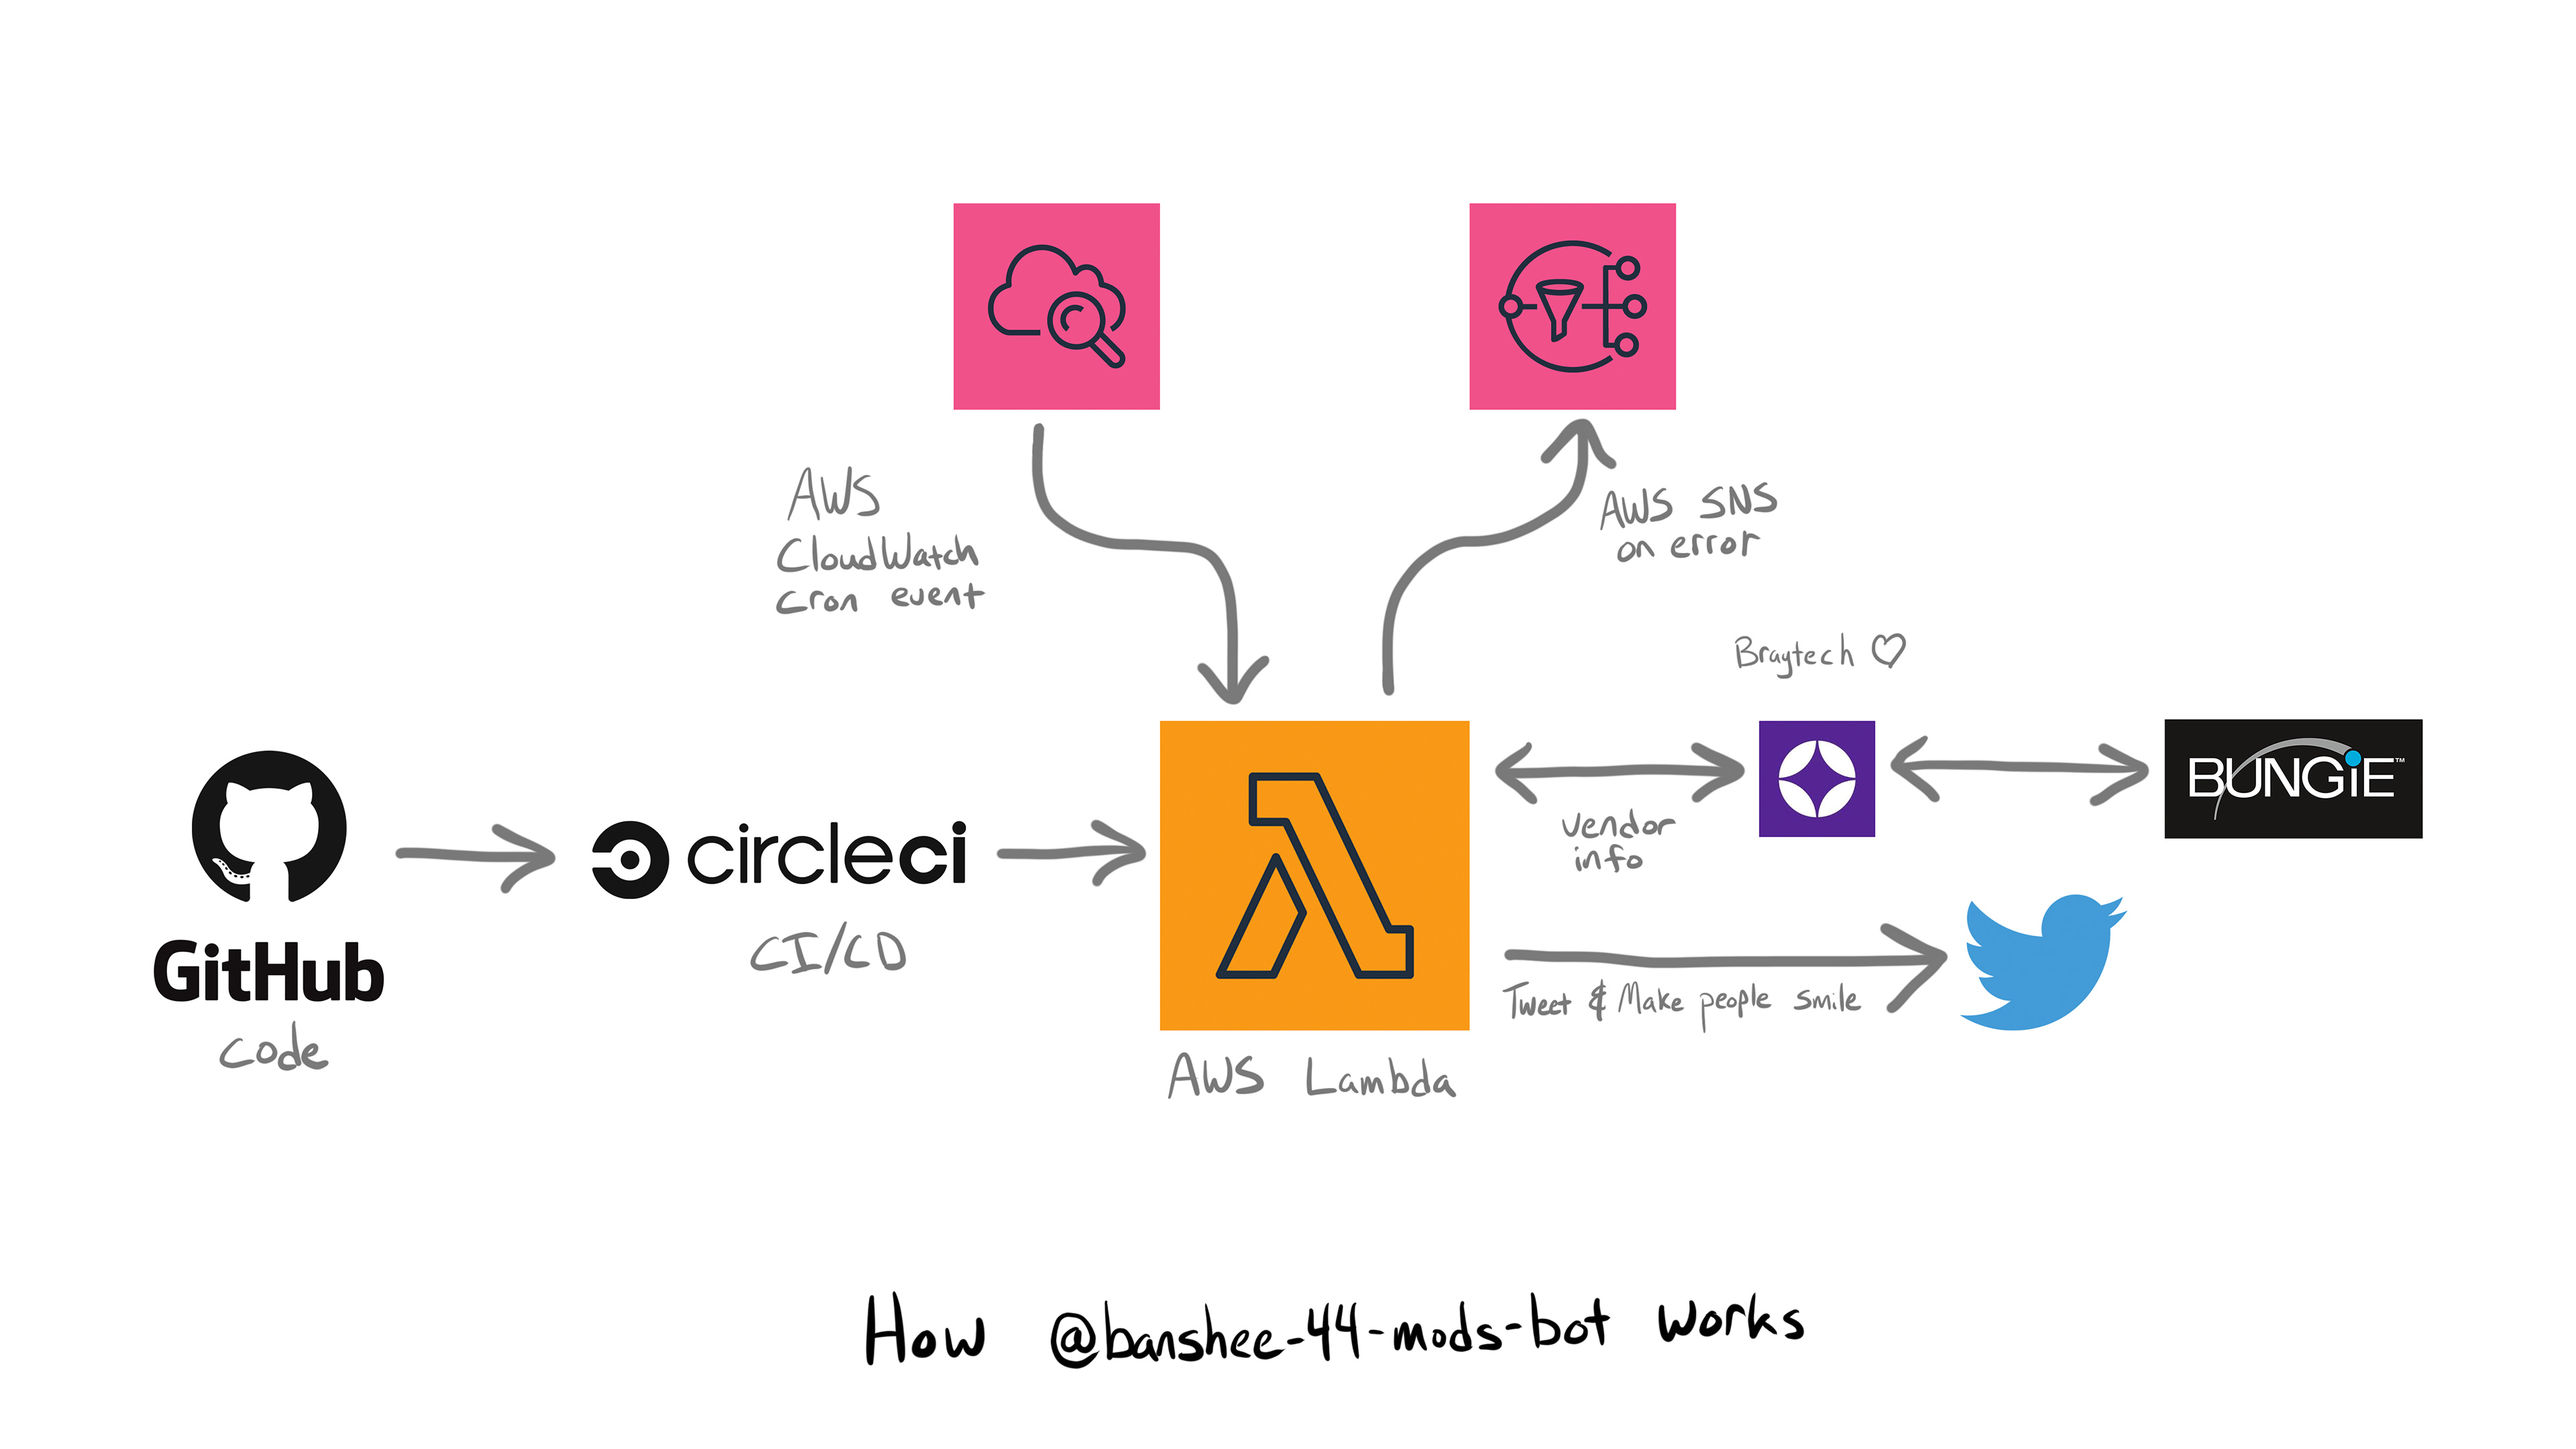
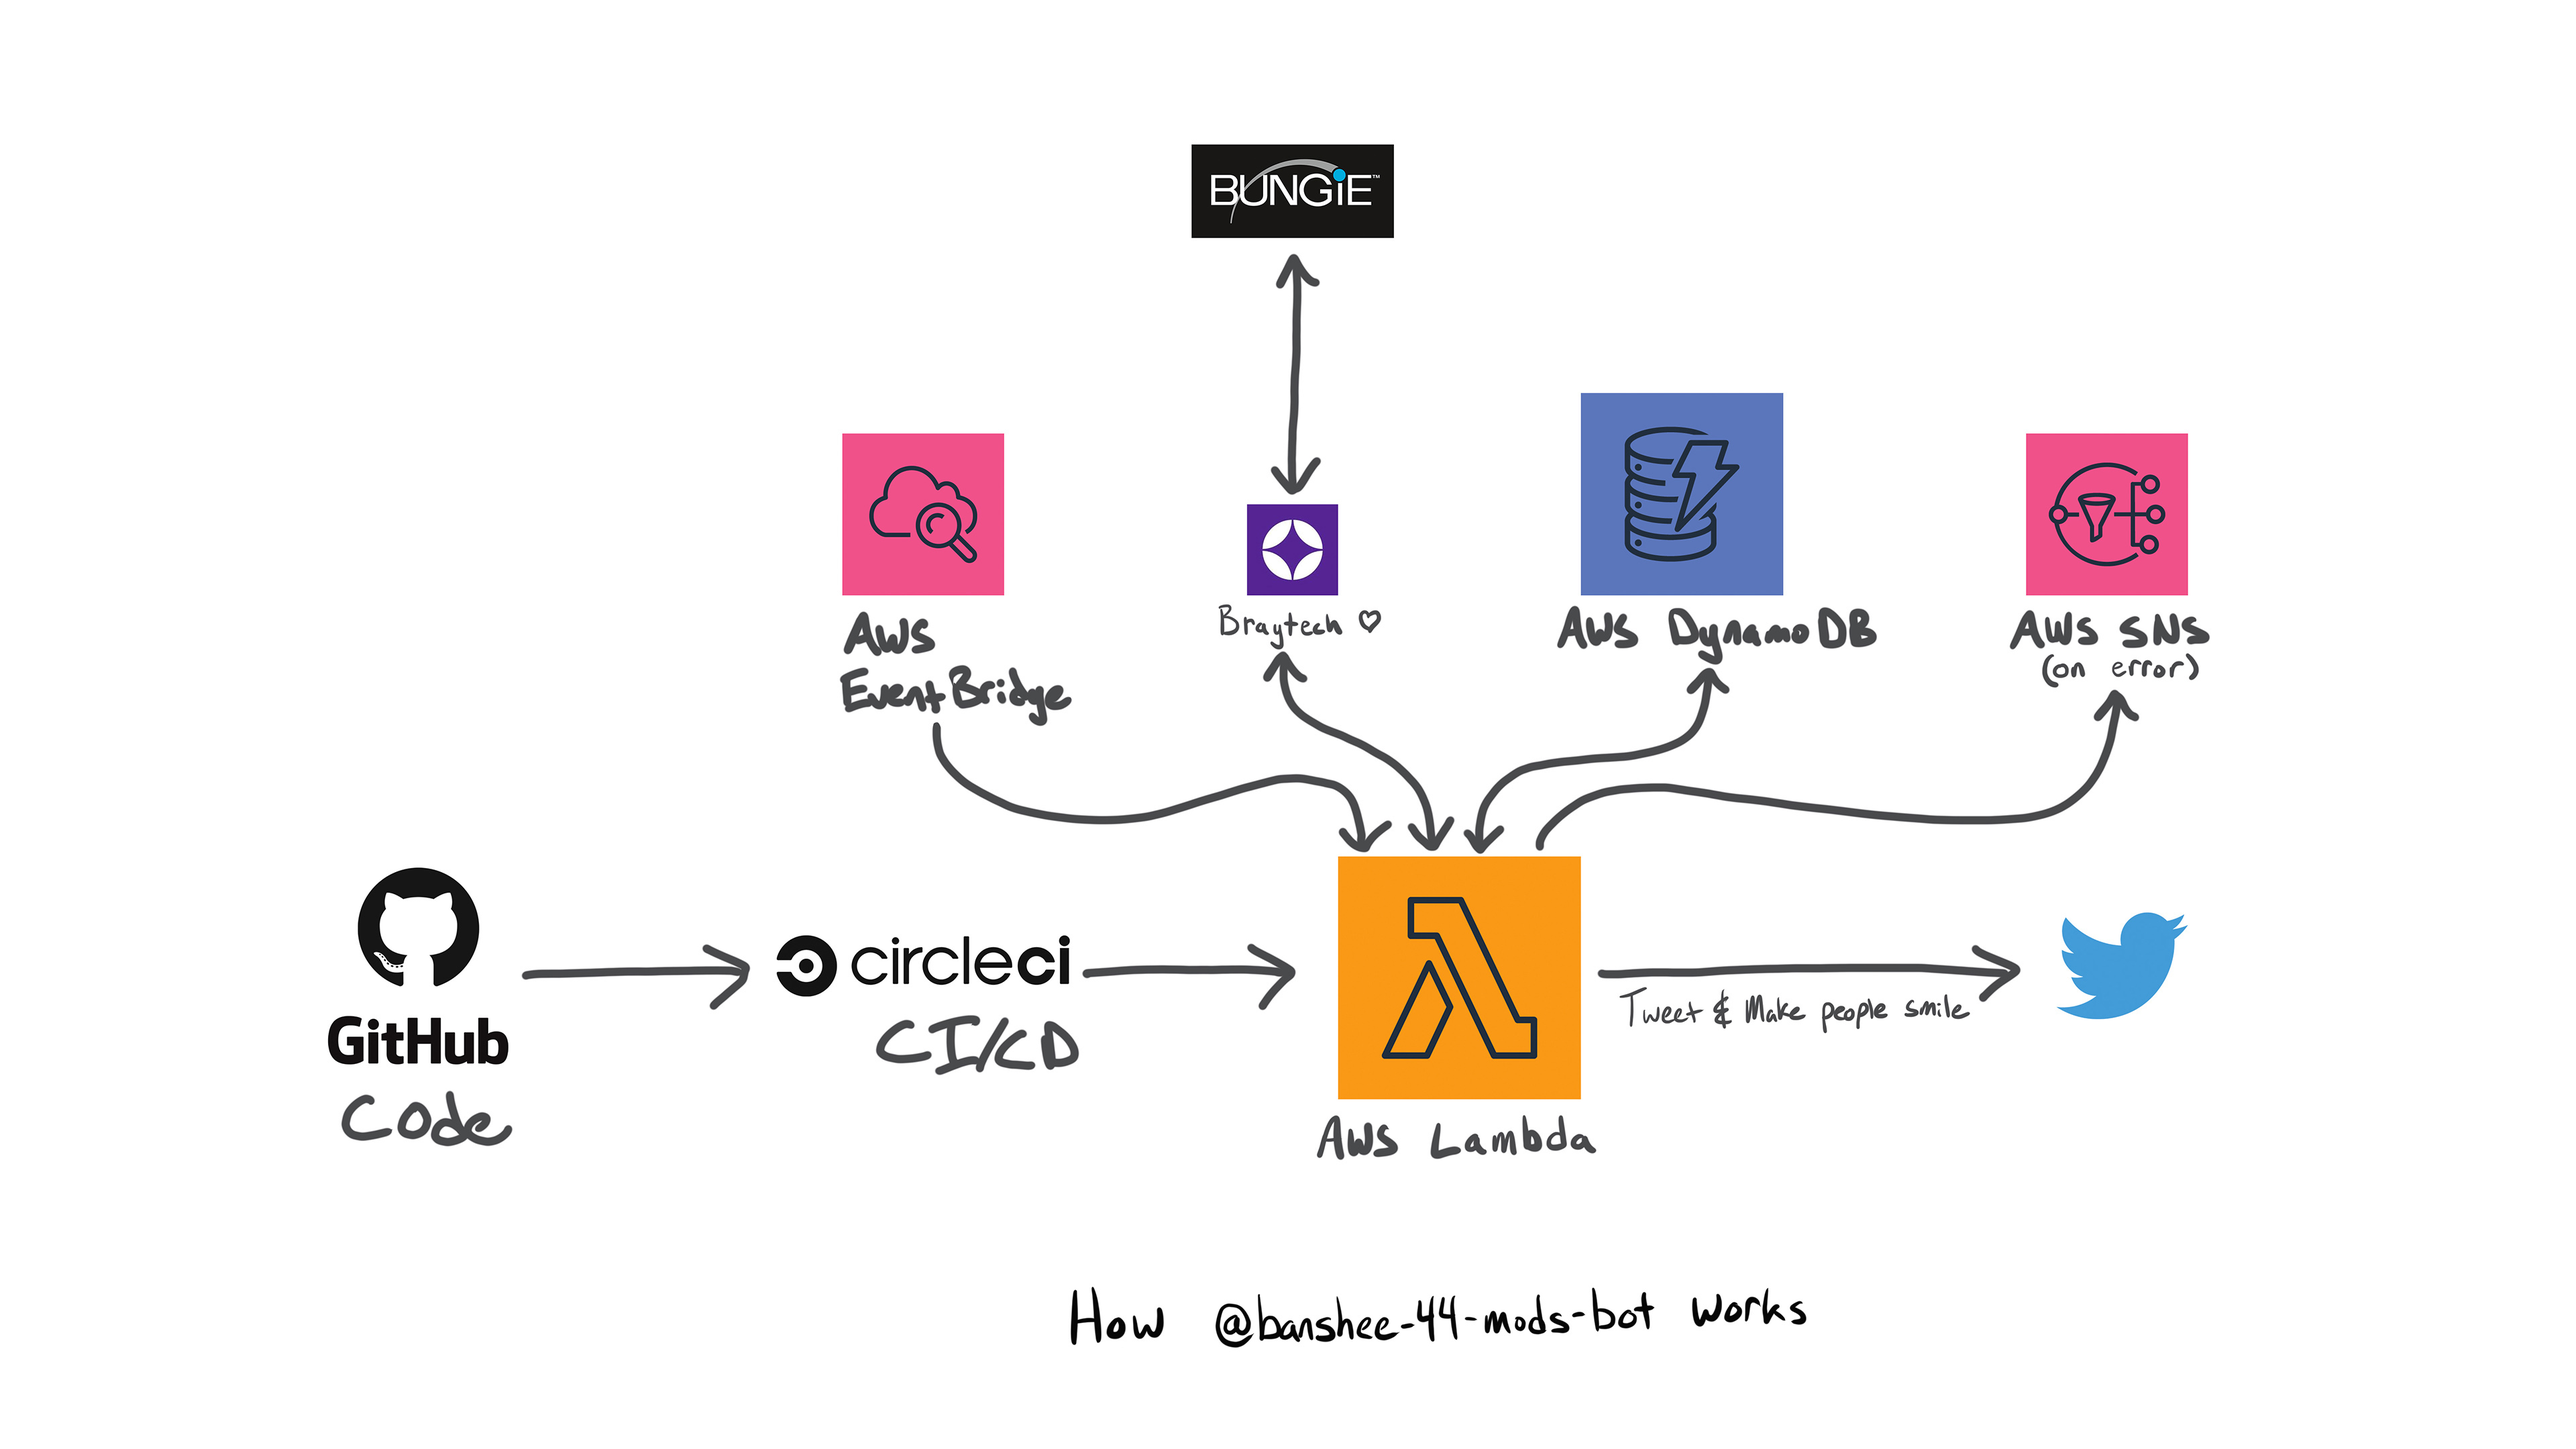
:sparkle: Adds historic context for each tweet

Changed region(s): [[0.0625, 0.0931, 0.9375, 0.8065], [0.4062, 0.8995, 0.7188, 0.9616], [0.3125, 0.8995, 0.375, 0.9616]]

diff --git a/src/integrations/dynamodb.js b/src/integrations/dynamodb.js
@@ -1,0 +1,81 @@
+const AWS = require("aws-sdk")
+
+module.exports.insertData = async (mod1, mod2) => {
+  AWS.config.update({ region: "us-east-1" })
+  const ddb = new AWS.DynamoDB({ apiVersion: "2012-08-10" })
+
+  const params = {
+    TableName: "banshee-44-mods-bot",
+    Item: {
+      // AWS DynamoDB uses single char for types
+      // eslint-disable-next-line id-length
+      timestamp: { S: new Date().toISOString() },
+      // eslint-disable-next-line id-length
+      mod1: { S: mod1 },
+      // eslint-disable-next-line id-length
+      mod2: { S: mod2 }
+    }
+  }
+
+  await ddb.putItem(params).promise()
+}
+
+const getQuery = (modNumber, mod) => {
+  return {
+    TableName: "banshee-44-mods-bot",
+    FilterExpression: `${modNumber} = :value`,
+    ExpressionAttributeValues: {
+      // AWS DynamoDB uses single char for types
+      // eslint-disable-next-line id-length
+      ":value": { S: mod }
+    }
+  }
+}
+
+module.exports.deleteKey = async (key) => {
+  AWS.config.update({ region: "us-east-1" })
+  const ddb = new AWS.DynamoDB.DocumentClient()
+
+  const params = {
+    TableName: "banshee-44-mods-bot",
+    Key: {
+      timestamp: key
+    }
+  }
+
+  await ddb.delete(params).promise()
+}
+
+module.exports.getDataForMod = async (mod) => {
+  AWS.config.update({ region: "us-east-1" })
+  const ddb = new AWS.DynamoDB({ apiVersion: "2012-08-10" })
+  const responses = []
+  const results = []
+
+  const query1 = getQuery("mod1", mod)
+  let response = await ddb.scan(query1).promise()
+  responses.push(...response.Items)
+  const query2 = getQuery("mod2", mod)
+  response = await ddb.scan(query2).promise()
+  responses.push(...response.Items)
+
+  for (const tweet of responses) {
+    const dropDate = new Date(tweet.timestamp.S)
+    const now = new Date()
+    const difference = Math.floor((now - dropDate) / (1000 * 60 * 60 * 24))
+
+    if (difference < 366) {
+      results.push({
+        timestamp: tweet.timestamp.S,
+        mod1: tweet.mod1.S,
+        mod2: tweet.mod2.S
+      })
+    }
+  }
+
+  const sortedResults = results.sort((first, second) => {
+    return new Date(second.timestamp) - new Date(first.timestamp)
+  })
+
+  return sortedResults
+}

diff --git a/index.js b/index.js
@@ -1,13 +1,36 @@
 const braytech = require("./src/integrations/braytech.js")
+const dynamodb = require("./src/integrations/dynamodb.js")
 const twitter = require("./src/integrations/twitter.js")
+const { getModDetails } = require("./src/util/get-mod-details.js")
+const { getTimeWording } = require("./src/util/get-time-wording.js")
 
 exports.handler = async (event, context, callback) => {
   try {
     const mods = await braytech.getModsForSale()
-    const [firstMod, secondMod] = mods
-    // Allow tweet to be longer than 100 characters
-    // eslint-disable-next-line max-len
-    const message = `Banshee-44 is selling ${firstMod} and ${secondMod} today. #Destiny2 #TwitterBot`
+    const [mod1, mod2] = mods
+    await dynamodb.insertData(mod1, mod2)
+
+    const mod1Data = await dynamodb.getDataForMod(mod1)
+    const mod2Data = await dynamodb.getDataForMod(mod2)
+    const mod1Details = await getModDetails(mod1Data)
+    const mod2Details = await getModDetails(mod2Data)
+
+    const mod1TimeWording = getTimeWording(mod1Details.dropCount)
+    const mod2TimeWording = getTimeWording(mod2Details.dropCount)
+
+    const message = `Banshee-44 is selling:
+
+${mod1}
+- Sold ${mod1Details.dropCount} ${mod1TimeWording} in the last year
+- ${mod1Details.dropRate}% Drop Rate
+- Last sold ${mod1Details.lastDropDate}
+
+${mod2}
+- Sold ${mod2Details.dropCount} ${mod2TimeWording} in the last year
+- ${mod2Details.dropRate}% Drop Rate
+- Last sold ${mod2Details.lastDropDate}
+
+#Destiny2 #TwitterBot`
     await twitter.post(message)
 
     const response = {

diff --git a/src/util/get-mod-details.js b/src/util/get-mod-details.js
@@ -1,0 +1,42 @@
+const { getOrdinal } = require("./get-ordinal.js")
+
+module.exports.getModDetails = async (modData) => {
+  const dropCount = modData.length
+  let dropRate = modData.length / 365 * 100
+
+  if (dropRate !== 0) {
+    dropRate = dropRate.toFixed(2)
+  }
+
+  const months = [
+    "Jan",
+    "Feb",
+    "Mar",
+    "Apr",
+    "May",
+    "Jun",
+    "Jul",
+    "Aug",
+    "Sep",
+    "Oct",
+    "Nov",
+    "Dec"
+  ]
+
+  let lastDropDate
+
+  if (modData[1] && modData[1].timestamp) {
+    lastDropDate = new Date(modData[1].timestamp)
+    const year = lastDropDate.getFullYear()
+    const month = months[lastDropDate.getMonth()]
+    const day = lastDropDate.getDate()
+    const ordinal = getOrdinal(day)
+    lastDropDate = `${month} ${day}${ordinal} ${year}`
+  }
+
+  return {
+    dropCount,
+    dropRate,
+    lastDropDate
+  }
+}

diff --git a/test/integration/dynamodb.js b/test/integration/dynamodb.js
@@ -1,0 +1,16 @@
+const test = require("tape-async")
+const { deleteKey, getDataForMod, insertData } = require("../../src/integrations/dynamodb.js")
+
+test("Integration - DynamoDb", async (assert) => {
+  assert.plan(3)
+  await insertData("foo", "bar")
+  let modInfo = await getDataForMod("foo")
+  assert.true(modInfo.length > 0, "insertData verified")
+  for (const item of modInfo) {
+    await deleteKey(item.timestamp)
+  }
+  modInfo = await getDataForMod("foo")
+  modInfo = await getDataForMod("bar")
+  assert.true(modInfo.length === 0, "deleteKey verified")
+  assert.true(modInfo.length === 0, "getModInfo verified")
+})

diff --git a/src/util/get-ordinal.js b/src/util/get-ordinal.js
@@ -1,0 +1,13 @@
+module.exports.getOrdinal = (day) => {
+  if (day > 3 && day < 21) {
+    return "th"
+  } else if (day % 10 === 1) {
+    return "st"
+  } else if (day % 10 === 2) {
+    return "nd"
+  } else if (day % 10 === 3) {
+    return "rd"
+  } else {
+    return "th"
+  }
+}

diff --git a/src/util/get-time-wording.js b/src/util/get-time-wording.js
@@ -1,0 +1,7 @@
+module.exports.getTimeWording = (count) => {
+  if (count === 1) {
+    return "time"
+  } else {
+    return "times"
+  }
+}

diff --git a/CHANGELOG.md b/CHANGELOG.md
@@ -3,6 +3,10 @@ All notable changes to this project will be documented in this file.
 
 This project adheres to [Semantic Versioning](https://semver.org/spec/v2.0.0.html).
 
+## [v1.13.0] - 2020-09-12
+### Added
+- :sparkle: Adds historic context for each tweet
+
 ## [v1.12.0] - 2020-08-29
 ### Changed
 - :rocket: Adds Terraform and Terraform Cloud
@@ -80,6 +84,7 @@ This project adheres to [Semantic Versioning](https://semver.org/spec/v2.0.0.htm
 - :sparkles: Integration with Twitter to post tweets
 - :rocket: Continuous Integration pipeline config
 
+[v1.13.0]: https://github.com/cujarrett/banshee-44-mods-bot/compare/v1.12.0...v1.13.0
 [v1.12.0]: https://github.com/cujarrett/banshee-44-mods-bot/compare/v1.11.0...v1.12.0
 [v1.11.0]: https://github.com/cujarrett/banshee-44-mods-bot/compare/v1.10.0...v1.11.0
 [v1.10.0]: https://github.com/cujarrett/banshee-44-mods-bot/compare/v1.9.2...v1.10.0
